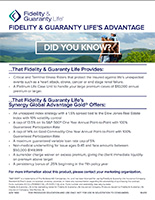
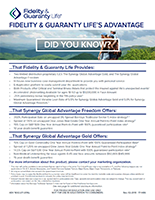
upload thumbnails

diff --git a/app/freedom.html b/app/freedom.html
@@ -277,10 +277,10 @@ j=d.createElement(s),dl=l!='dataLayer'?'&l='+l:'';j.async=true;j.src=
           <div class="col_one_fourth nobottommargin center product-cta">
             <h3 class="cta-title" style="margin-bottom: 10px;">Consumer Brochure</h3>
               <div class="cta-img-wrapper center">
-                <img src="images/life/bro_synergygold.jpg" alt="synergygold">
+                <img src="images/life/bro_synergyfreedom.jpg" alt="synergy freedom">
               </div>
 				<div><p class="caption" style="margin-bottom:5px; margin-top: 5px;"><small>Download the complete customer brochure for more information. Please note this is a generic brochure. Product, features, rates and charges may differ substantially by state.</small></p>
-              <a href="https://s3.amazonaws.com/fglife-docs/Synergy+Gold/ADV1685.pdf" target="new" class="button button-3d button-gold button-small btn-block center">Download</a>
+              <a href="https://s3.amazonaws.com/fglife-docs/Synergy+Gold/ADV1944.pdf" target="new" class="button button-3d button-gold button-small btn-block center">Download</a>
               </div>
             </div>
 
@@ -291,17 +291,17 @@ j=d.createElement(s),dl=l!='dataLayer'?'&l='+l:'';j.async=true;j.src=
                 <img src="images/life/retirement_planning.jpg" alt="Retirement Planning">
               </div>
 				<div><p class="caption" style="margin-bottom:5px; margin-top: 5px;"><small>Download the complete customer brochure for more information. Please note this is a generic brochure. Product, features, rates and charges may differ substantially by state.</small></p>
-              <a href="https://s3.amazonaws.com/fglife-docs/Synergy+Gold/ADV1067+Life+Retirement+Planning+and+Role+(CB)+16-407+-+20160527_1PROOF.pdf" target="new" class="button button-3d button-gold button-small btn-block center">Download</a></div>
+              <a href="https://s3.amazonaws.com/fglife-docs/Synergy+Gold/ADV1067.pdf" target="new" class="button button-3d button-gold button-small btn-block center">Download</a></div>
             </div>
 
 
           <div class="col_one_fourth nobottommargin center product-cta">
             <h3 class="cta-title" style="margin-bottom: 10px;">Pyramid to Success</h3>
               <div class="cta-img-wrapper center">
-                <img src="images/life/pyramid.jpg" alt="Pyramid">
+                <img src="images/life/Pyramid_Freedom.png" alt="Pyramid Freedom">
               </div>
 				<div><p class="caption" style="margin-bottom:5px; margin-top: 5px;"><small>Download the complete customer brochure for more information. Please note this is a generic brochure. Product, features, rates and charges may differ substantially by state.</small></p>
-              <a href="https://s3.amazonaws.com/fglife-docs/Synergy+Gold/FGL+Life+Pyramid+Gold+2pageFillable.pdf" target="new" class="button button-3d button-gold button-small btn-block center">Download</a></div>
+              <a href="https://s3.amazonaws.com/fglife-docs/Synergy+Gold/ADV1953.pdf" target="new" class="button button-3d button-gold button-small btn-block center">Download</a></div>
             </div>
 
 
@@ -311,7 +311,7 @@ j=d.createElement(s),dl=l!='dataLayer'?'&l='+l:'';j.async=true;j.src=
                 <img src="images/life/didyouknow.jpg" alt="Did You Know">
               </div>
 				<div><p class="caption" style="margin-bottom:5px; margin-top: 5px;"><small>Download the complete customer brochure for more information. Please note this is a generic brochure. Product, features, rates and charges may differ substantially by state.</small></p>
-              <a href="https://s3.amazonaws.com/fglife-docs/Synergy+Gold/FG+Life+Advantage+Did+You+KnowGold.pdf" target="new" class="button button-3d button-gold button-small btn-block center">Download</a></div>
+              <a href="https://s3.amazonaws.com/fglife-docs/Synergy+Gold/ADV1692.pdf" target="new" class="button button-3d button-gold button-small btn-block center">Download</a></div>
             </div>
 
 
